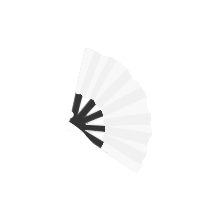
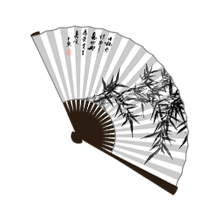
feat: 诗意折扇

Changed region(s): [[0.1357, 0.1086, 0.8688, 0.8959]]

diff --git a/src/components/衣服和装饰/饰品/折扇.js b/src/components/衣服和装饰/饰品/折扇.js
@@ -1,12 +1,14 @@
 import AssetManager from "@mod-utils/AssetManager";
+import { Tools } from "@mod-utils/Tools";
 import { VersionSupport } from "@mod-utils/VersionSupport";
 
 /** @type { CustomAssetDefinition } */
 const asset = {
     Name: "折扇_Luzi",
     Random: false,
-    Top: 0,
-    Left: 0,
+    Top: 240,
+    Left: 150,
+    Priority: 55,
     ParentGroup: VersionSupport.NoParentGroup,
     PoseMapping: {
         TapedHands: PoseType.DEFAULT,
@@ -18,22 +20,74 @@ const asset = {
         Hogtied: PoseType.HIDE,
         AllFours: PoseType.HIDE,
     },
-    DefaultColor: ["#000000", "#000000", "Default"],
+    DefaultColor: ["#FFFFFF", "#0C0809", "#2B1D11", "#2B1D11", "#2B1D11", "#848484"],
+    AllowActivity: ["SpankItem", "RubItem"],
+    ActivityAudio: ["SmackCrop"],
     Layer: [
         {
-            Name: "扇柄展开",
-            Priority: 55,
-            AllowTypes: { n: [1] },
-        },
-        {
-            Name: "扇柄",
-            Priority: 55,
+            Name: "折叠扇面",
             AllowTypes: { n: [0] },
         },
         {
-            Name: "扇页展开",
-            Priority: 55,
+            Name: "折叠扇面边缘",
+            AllowTypes: { n: [0] },
+        },
+        {
+            Name: "折叠扇骨",
+            AllowTypes: { n: [0] },
+        },
+        {
+            Name: "展开扇骨后",
             AllowTypes: { n: [1] },
+        },
+        {
+            Name: "展开扇面",
+            CopyLayerColor: "折叠扇面",
+            AllowTypes: { n: [1] },
+        },
+        {
+            Name: "展开扇面边缘",
+            CopyLayerColor: "折叠扇面边缘",
+            AllowTypes: { n: [1] },
+        },
+        {
+            Name: "展开扇骨",
+            AllowTypes: { n: [1] },
+        },
+        {
+            Name: "展开扇面阴影",
+            Priority: 56,
+            AllowTypes: { n: [1] },
+        },
+        {
+            Name: "梅",
+            AllowColorize: false,
+            AllowTypes: { n: [1], p: [1] },
+        },
+        {
+            Name: "兰",
+            AllowColorize: false,
+            AllowTypes: { n: [1], p: [2] },
+        },
+        {
+            Name: "竹",
+            AllowColorize: false,
+            AllowTypes: { n: [1], p: [3] },
+        },
+        {
+            Name: "菊",
+            AllowColorize: false,
+            AllowTypes: { n: [1], p: [4] },
+        },
+        {
+            Name: "山水",
+            AllowColorize: false,
+            AllowTypes: { n: [1], p: [5] },
+        },
+        {
+            Name: "溪上扁舟隔月来",
+            AllowColorize: false,
+            AllowTypes: { n: [1], p: [6] },
         },
     ],
 };
@@ -48,52 +102,73 @@ const extended = {
             Key: "n",
             Options: [{}, {}],
         },
+        {
+            Name: "图案",
+            DrawImages: false,
+            Key: "p",
+            Options: [{}, {}, {}, {}, {}, {}, {}],
+        },
     ],
 };
 
 /** @type {Translation.Dialog} */
-const dialog = {
+const dialog = Tools.replicateTypedItemDialog(["ItemHandheld"], ["折扇_Luzi"], {
     CN: {
-        ItemHandheld折扇_LuziSelectBase: "选择配置",
-        ItemHandheld折扇_LuziSelect展开: "展开扇子",
-        ItemHandheld折扇_LuziModule展开: "展开扇子",
-        ItemHandheld折扇_LuziOptionn0: "关闭",
-        ItemHandheld折扇_LuziOptionn1: "展开",
+        SelectBase: "选择配置",
+        Module展开: "展开扇子",
+        Module图案: "图案",
 
-        ItemHandheld折扇_LuziSetn0: "SourceCharacter关闭了TargetCharacter的折扇。",
-        ItemHandheld折扇_LuziSetn1: "SourceCharacter展开了TargetCharacter的折扇。",
+        Select展开: "展开扇子",
+        Optionn0: "关闭",
+        Optionn1: "展开",
+        Setn0: "SourceCharacter将TargetCharacter的折扇轻合，檀木扇骨收作蝶栖梅枝，绢面星斗复归砚底玄池。",
+        Setn1: "SourceCharacter振腕展开TargetCharacter的折扇，玉竹扇骨化开半阙月光，素绢云纹漫卷三秋溪山。",
+
+        Select图案: "选择图案",
+        Optionp0: "无",
+        Optionp1: "梅",
+        Optionp2: "兰",
+        Optionp3: "竹",
+        Optionp4: "菊",
+        Optionp5: "山水",
+        Optionp6: "西溪舟行其一",
+        Setp0: "SourceCharacter执扇在手，轻拂流云，将TargetCharacter扇面复归素白澄明之境。",
+        Setp1: "SourceCharacter提笔落朱砂，为TargetCharacter描就扇上『疏影横枝』，暗香浮动月黄昏。",
+        Setp2: "SourceCharacter运腕生幽芳，在TargetCharacter扇骨间勾勒『空谷猗兰』，九畹清风徐徐来。",
+        Setp3: "SourceCharacter蘸墨写劲节，使TargetCharacter掌中折扇顿生『潇湘竹韵』，万叶秋声满庭轩。",
+        Setp4: "SourceCharacter点金成傲霜，令TargetCharacter扇面铺展『东篱霜菊』，黄金甲胄抱香寒。",
+        Setp5: "SourceCharacter破墨染氤氲，于TargetCharacter素纨上皴擦『千里江山』，青绿千载见沧溟。",
+        Setp6: "SourceCharacter悬腕书诗魄，在TargetCharacter玉竹扇间挥就『溪上扁舟隔月来』，一竿撑碎水云光。",
     },
     EN: {
-        ItemHandheld折扇_LuziSelectBase: "Select Configuration",
-        ItemHandheld折扇_LuziSelect展开: "Open Fan",
-        ItemHandheld折扇_LuziModule展开: "Open Fan",
-        ItemHandheld折扇_LuziOptionn0: "Closed",
-        ItemHandheld折扇_LuziOptionn1: "Opened",
+        SelectBase: "Select Configuration",
+        Module展开: "Open Fan",
+        Module图案: "Pattern",
 
-        ItemHandheld折扇_LuziSetn0: "SourceCharacter closed TargetCharacter's fan.",
-        ItemHandheld折扇_LuziSetn1: "SourceCharacter opened TargetCharacter's fan.",
-    },
-    UA: {
-        ItemHandheld折扇_LuziSelectBase: "Вибрати конфігурацію",
-        ItemHandheld折扇_LuziSelect展开: "Розгорнути вітрощі",
-        ItemHandheld折扇_LuziModule展开: "Розгорнути вітрощі",
-        ItemHandheld折扇_LuziOptionn0: "Закрито",
-        ItemHandheld折扇_LuziOptionn1: "Відкрито",
+        Select展开: "Open Fan",
+        Optionn0: "Closed",
+        Optionn1: "Opened",
+        Setn0: "SourceCharacter furls TargetCharacter's sandalwood fan, Where moonlit covenant folds back into inkwell night.",
+        Setn1: "SourceCharacter releases TargetCharacter's jade-bamboo fan, Unfolding solar flare across silk-cloud scroll of time.",
 
-        ItemHandheld折扇_LuziSetn0: "SourceCharacter закрив вітрощі TargetCharacter.",
-        ItemHandheld折扇_LuziSetn1: "SourceCharacter розгорнув вітрощі TargetCharacter.",
-    },
-    RU: {
-        ItemHandheld折扇_LuziSelectBase: "Выбрать конфигурацию",
-        ItemHandheld折扇_LuziSelect展开: "Развернуть веер",
-        ItemHandheld折扇_LuziModule展开: "Развернуть веер",
-        ItemHandheld折扇_LuziOptionn0: "Закрыто",
-        ItemHandheld折扇_LuziOptionn1: "Открыто",
+        Select图案: "Select Pattern",
+        Optionp0: "None",
+        Optionp1: "Plum",
+        Optionp2: "Orchid",
+        Optionp3: "Bamboo",
+        Optionp4: "Chrysanthemum",
+        Optionp5: "Landscape",
+        Optionp6: "西溪舟行 part 1",
 
-        ItemHandheld折扇_LuziSetn0: "SourceCharacter закрыл веер TargetCharacter.",
-        ItemHandheld折扇_LuziSetn1: "SourceCharacter открыл веер TargetCharacter.",
+        Setp0: "With cloud-chasing strokes, SourceCharacter sweeps away worldly traces from TargetCharacter's fan, restoring its parchment to the pristine void.",
+        Setp1: 'SourceCharacter etches "Plum Shadows Dance" upon TargetCharacter\'s silk canvas, floating fragrance under twilight moon.',
+        Setp2: "SourceCharacter weaves \"Orchid Whispers\" through TargetCharacter's bamboo slats, nine meadows' breeze caught in ink-washed grace.",
+        Setp3: 'SourceCharacter carves "Bamboo Sonata" into TargetCharacter\'s folding ribs, with each fold whispering autumn’s song through hollow jade.',
+        Setp4: "SourceCharacter gilds \"Chrysanthemum Armor\" across TargetCharacter's parchment, frost-kissed petals guarding winter's golden throne.",
+        Setp5: 'Celestial strokes swirl "Misty Peaks Voyage" onto TargetCharacter\'s silk canvas, where ink-washed mountains breathe eternal jade.',
+        Setp6: 'SourceCharacter inscribes "Moonlit Ripple Verse" along TargetCharacter\'s jade-bamboo ribs, where silvered oars cleave poetry from the stream.',
     },
-};
+});
 
 const translations = {
     CN: "折扇",
@@ -106,14 +181,3 @@ export default function () {
     AssetManager.addAsset("ItemHandheld", asset, extended, translations);
     AssetManager.addCustomDialog(dialog);
 }
-
-
-
-
-
-
-
-
-
-
-
